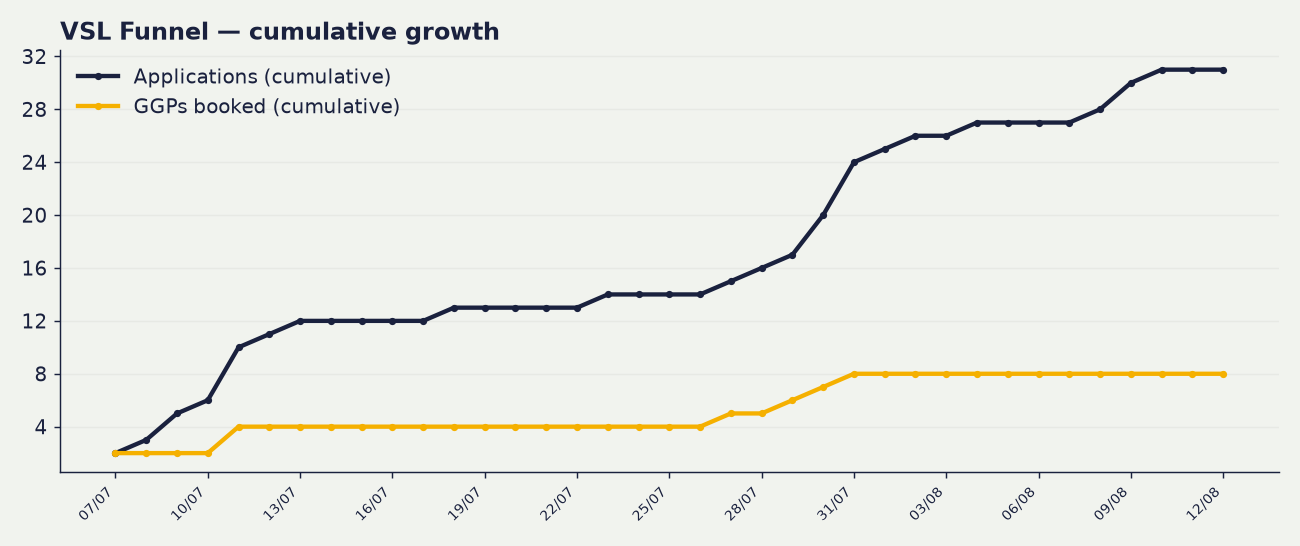
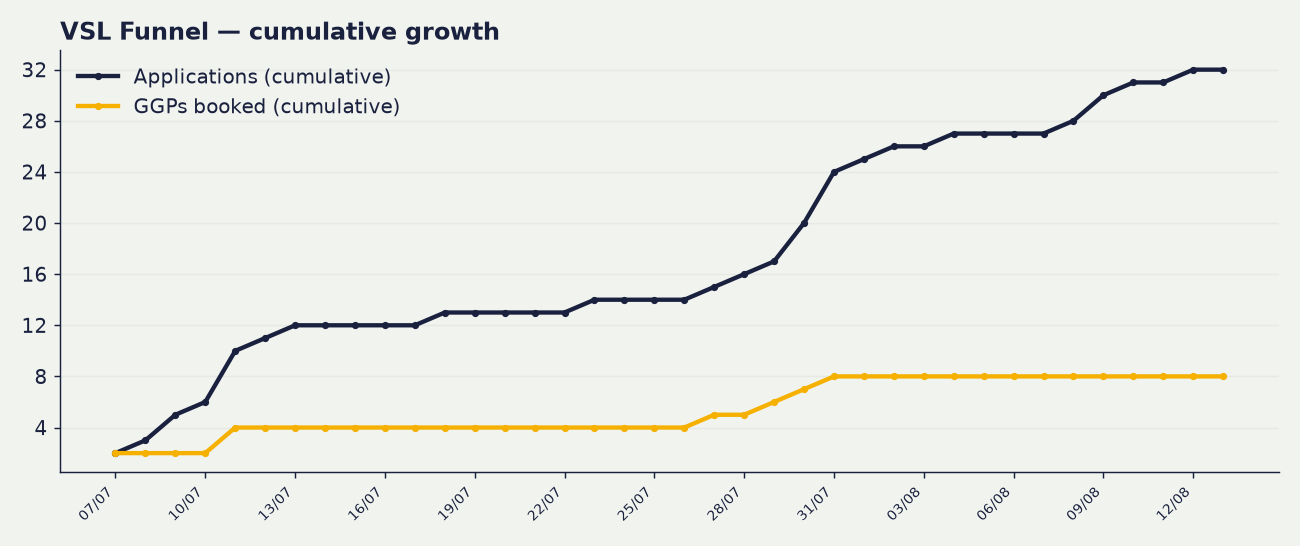
nightly dashboard update 2026-08-13 04:00

diff --git a/content/index.md b/content/index.md
@@ -1,6 +1,6 @@
 # 📈 VSL Funnel Dashboard
 
-_Live from the VSL Applications tracker + Meta. Last updated: 12 Aug 2026, 07:14 BST. Rebuilds nightly._
+_Live from the VSL Applications tracker + Meta. Last updated: 13 Aug 2026, 04:00 BST. Rebuilds nightly._
 
 > Funnel window from 2026-07-07. Attribution = your team's funnel-stage ticks on the Applications tab (the source of truth).
 
@@ -11,8 +11,8 @@ _Live from the VSL Applications tracker + Meta. Last updated: 12 Aug 2026, 07:14
 | Metric | Value |
 |---|---|
 | 💷 Spent | **£2,159.96** |
-| 👀 Opt-ins | **91** |
-| 📝 Applications | **41** |
+| 👀 Opt-ins | **92** |
+| 📝 Applications | **42** |
 | 📞 GGPs booked | **11** |
 | ✅ Showed up | **7** |
 | 🤝 Signed | **2** (Tarik, Zeeshan) |
@@ -21,8 +21,8 @@ _Live from the VSL Applications tracker + Meta. Last updated: 12 Aug 2026, 07:14
 
 | Step | Rate |
 |---|---|
-| Opt-in → Application | 45% |
-| Application → GGP booked | 27% |
+| Opt-in → Application | 46% |
+| Application → GGP booked | 26% |
 | GGP show rate | 64% |
 | Show → Sign | 29% |
 | Application → Sign | 5% |
@@ -31,7 +31,7 @@ _Live from the VSL Applications tracker + Meta. Last updated: 12 Aug 2026, 07:14
 
 | Cost | Value |
 |---|---|
-| Cost per application | £53 |
+| Cost per application | £51 |
 | Cost per GGP booked | £196 |
 | Cost per show-up | £309 |
 | **Cost per acquisition (CPA)** | **£1,080** |
@@ -57,4 +57,4 @@ _Live from the VSL Applications tracker + Meta. Last updated: 12 Aug 2026, 07:14
 > _Applications + GGP-booked are TRUE daily series (from submission timestamps). Opt-ins have no per-day source in the Opt-ins tab, so opt-ins appear as a total only, not a daily line._
 
 ---
-<!-- Auto-generated by the VSL dashboard nightly pipeline. Do not edit by hand. 12 Aug 2026, 07:14 BST -->
+<!-- Auto-generated by the VSL dashboard nightly pipeline. Do not edit by hand. 13 Aug 2026, 04:00 BST -->
